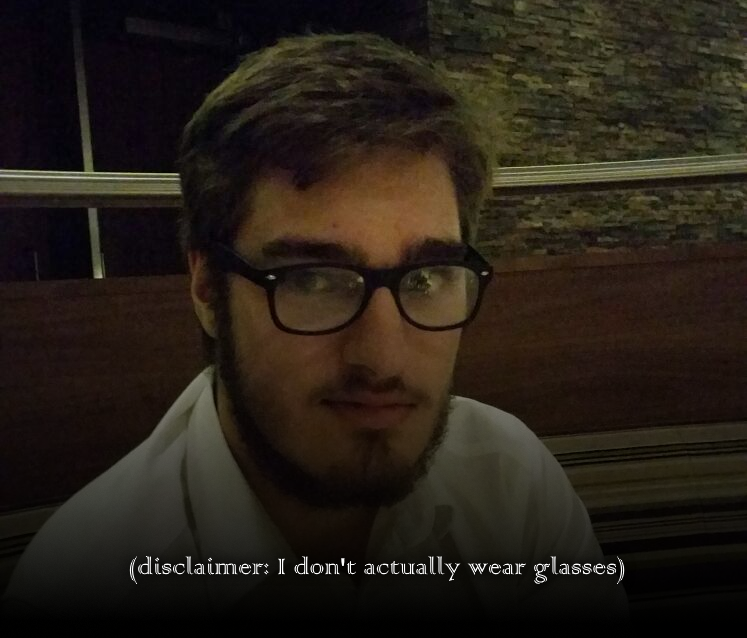
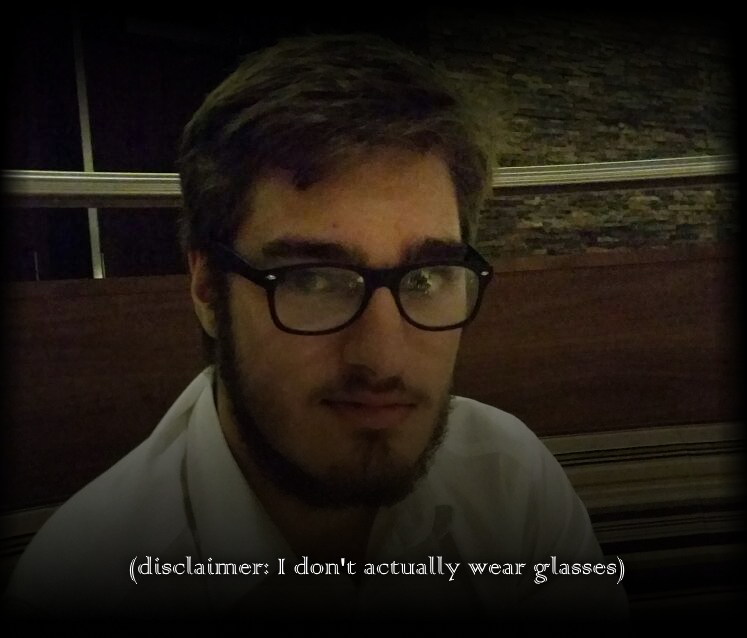
Adjusted "me.png"+code fix
-Adjusted img/me.png
-Fixed missing '&#40;' sign
-Adjusted text with an <br> tag

Changed region(s): [[0.2771, 0.0, 1.0, 0.7743], [0.0, 0.268, 0.0308, 0.3276], [0.0, 0.4467, 0.0308, 0.4765]]

diff --git a/portofolio/index.html b/portofolio/index.html
@@ -100,7 +100,7 @@
         <div class="row">
             <div class="col-lg-8 col-lg-offset-2">
                 <h2>About Me.</h2>
-                <p>Hello and welcome to my portofolio thingy.... (I'm honestly sorry if this is not "buisness like" but well... I want to break the ice here.</p>
+                <p>Hello and welcome to my portofolio thingy.... <br>(I'm honestly sorry if this is not "buisness like" but well... I want to break the ice here.)</p>
 				<p><img src="img/me.png" alt="picture" ><br>That's me.</p>
 				<p>I'm this old:<br><img src="img/placeholder.png" alt="age" ></p>
 				<p>I'm born  and live here:<br><img src="img/placeholder.png"></p>
